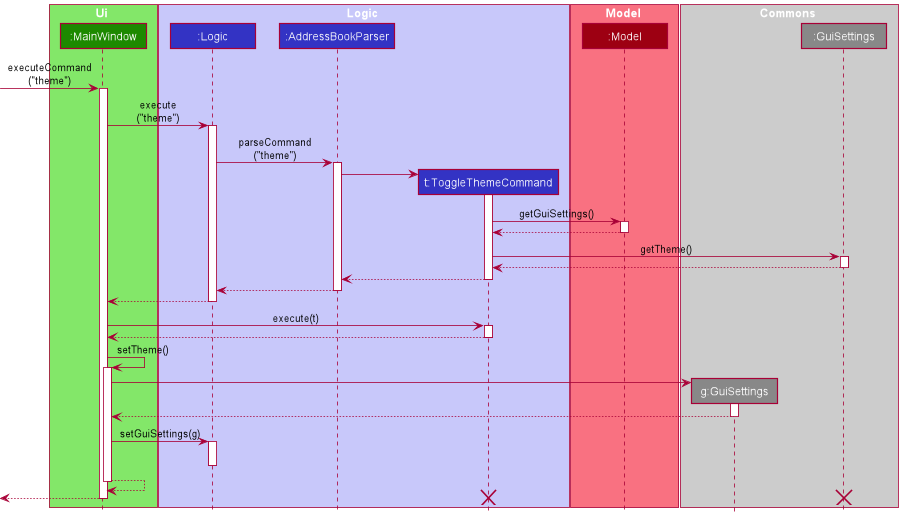
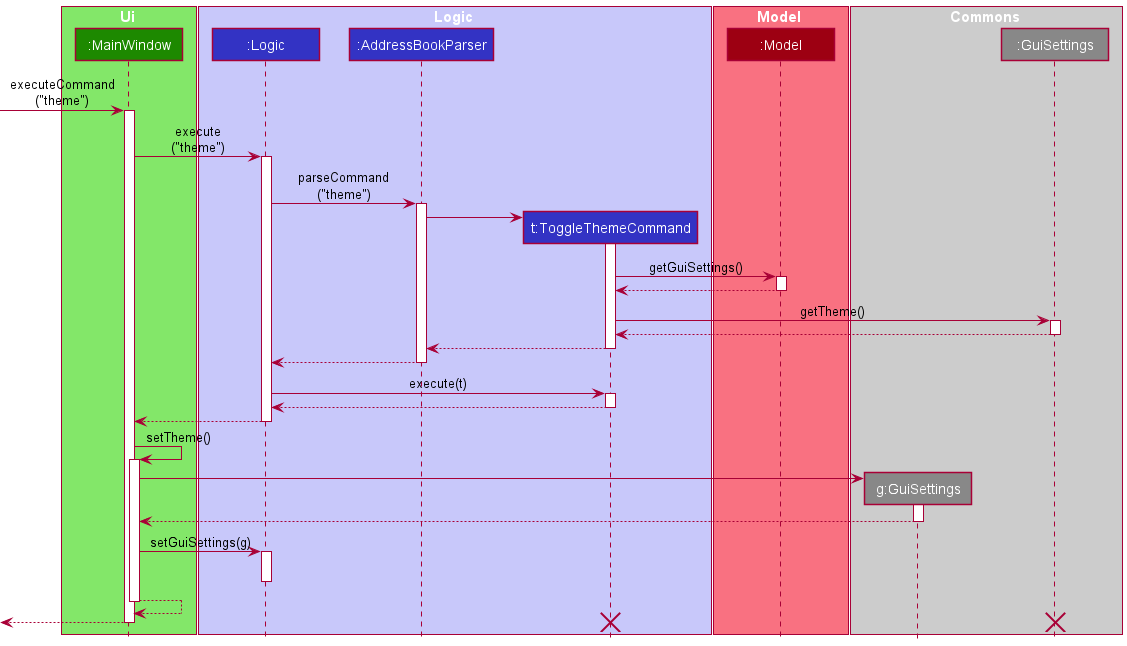
Fix Theme diagram in DG and add subdiagrams

diff --git a/docs/developerGuide/feature/Theme.md b/docs/developerGuide/feature/Theme.md
@@ -31,14 +31,19 @@ interface with the UI. The process by which message passing of the theme change 
    is exposed via the `Model#getGuiSettings` method.
    
 2. The `theme` command returns a `CommandResult` object that stores the desired `Theme` enumeration. This object is
-   passed via the `Logic` interface back into `MainWindow#executeCommand`, which in turn processes the `Theme`
-   via the `setTheme` method as specified above.
+   passed via the `Logic` interface back into `MainWindow#executeCommand`. which in turn processes the `Theme`
+   via the `setTheme` method as specified above. Both steps 1 and 2 are illustrated below:
 
-3. A replacement `GuiSettings` object is created by `Logic` using the updated theme,
-   and stored for subsequent retrieval in step 1.
+![](images/ThemeDiagramLogicExecute.png)
+
+3. The `Theme` encapsulated in the `CommandResult` is then passed into `setTheme`.
+   A replacement `GuiSettings` object is created by `Logic` using the updated theme,
+   and stored for subsequent retrieval (in step 1). This is shown below:
+   
+![](images/ThemeDiagramSetTheme.png)
 
 Notably, since `GuiSettings` is a common resource shared between the `Logic` and `Model` objects, this allows
-`ToggleThemeCommand` and `MainWindow` to access the `GuiSettings` object from different contexts without
+`ToggleThemeCommand` and `MainWindow` to access `GuiSettings` from different contexts without
 breaking the interface abstraction barrier.
 
 The following sequence diagram summarizes the `theme` command execution:
@@ -75,13 +80,13 @@ To add a new theme, adhere to the following steps:
    and populate it with the desired styling. If more styling rules are desired, feel free to separate them into
    multiple CSS files in the same directory.
    
-2. Add a new `Theme` enumeration, found in the `./ui/` application directory, and
+2. Add a new `Theme` enumeration value, and
    return the list of CSS files associated with the enumeration under the `Theme#getStyleSheets` method.
    
 3. To enable selection of the new theme using `theme` command, add a new entry for the theme in
-   `ToggleThemeCommand#execute` (found under the `./logic/commands/` directory).
+   `ToggleThemeCommand#execute` found within the `logic.commands` package.
    
-4. To enable selection of theme via menu bar, in the `MainWindow` class (found in `./ui/`),
+4. To enable selection of theme via menu bar, in `MainWindow` from the `ui` package,
    define a new `setTheme[THEME_NAME]` FXML event
-   handler that calls `MainWindow#setTheme` method with this new enumeration. In the `MainWindow` FXML itself,
+   handler calling `MainWindow#setTheme` method with this new enumeration. Additionally, in the `MainWindow` FXML itself,
    define a new `MenuItem` with the text `[THEME_NAME]` and register the aforementioned event handler.
